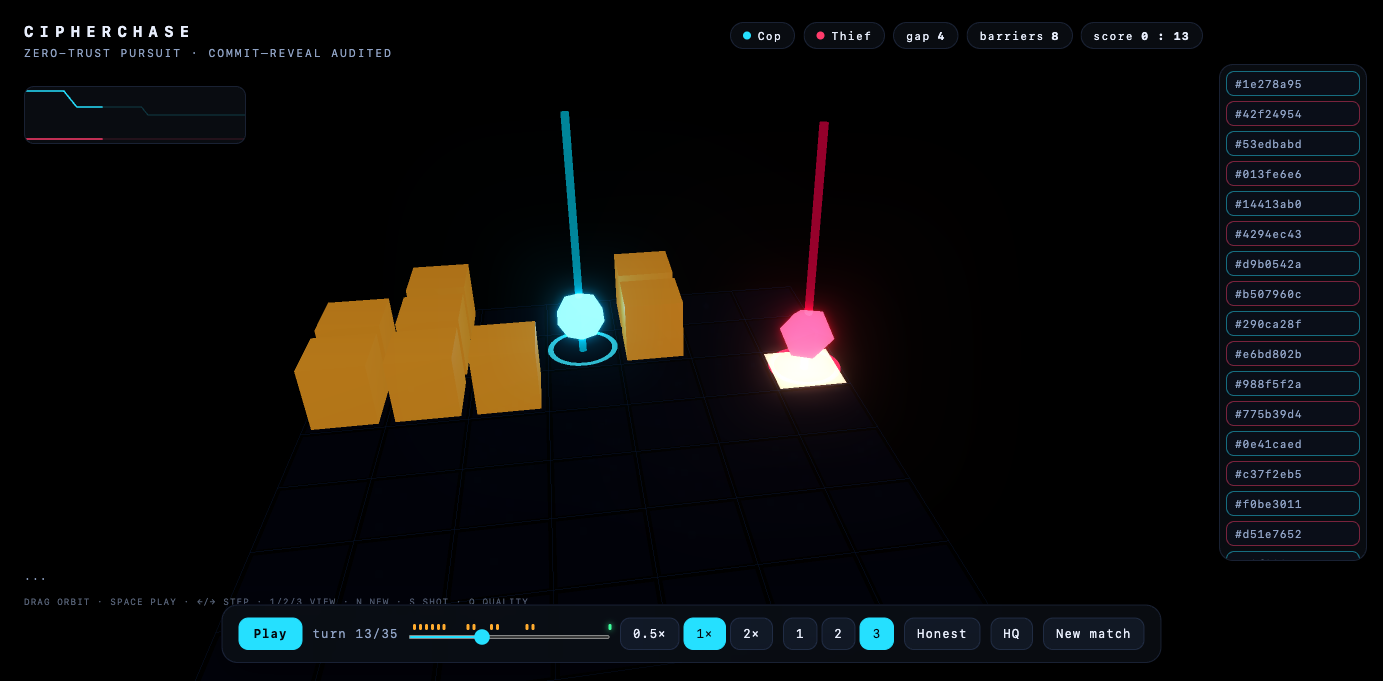
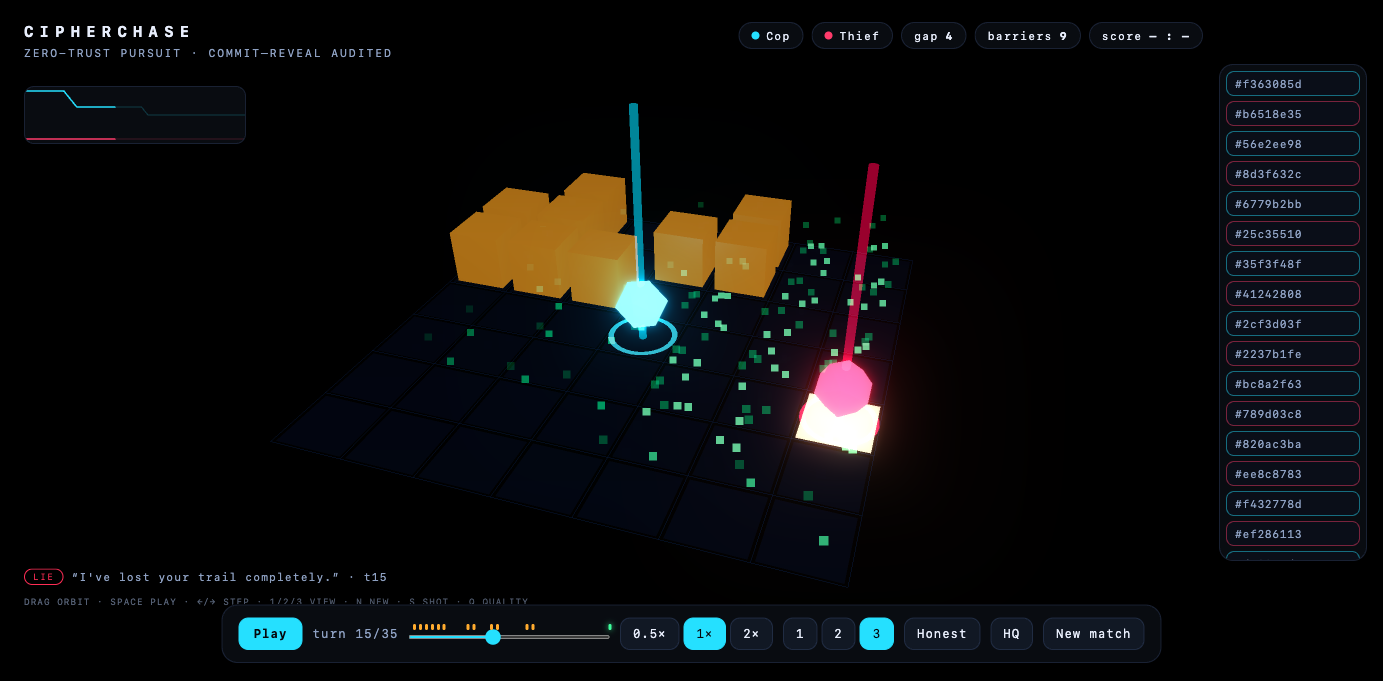
fix(viz): QA pass — five real bugs found on-screen and fixed
Driven hands-on in a headless browser (every control exercised,
regressions screenshotted): (1) follow-cam over-zoom cropped the board —
added a zoom floor, board-biased target, elevation keeper; (2) belief
floor unreadable — removed the v>=0.14 color cliff, brightened base +
grid; (3) scent particles invisible when paused/scrubbed — spawn on
every discrete apply + a 1.1s paused shimmer re-emission; (4) hint
ticker stuck on '···' — hints now persist scrub-correctly via a
last-hint-at-or-before index, with the truth/LIE badge; (5) mid-game
score chip implied live points — now honest '– : –' until the end.
Bonus: viz_server sends Cache-Control: no-store (stale-module dev trap).
Verified: backward-scrub regressions (walls/rail/banner/scoreboard) all
clean; rail is progressive + per-step interleaved; cop-view ghost
correct. README media retaken with the fixed visuals. node tests 11
pass; suite green.

diff --git a/viz/js/scent.js b/viz/js/scent.js
@@ -12,24 +12,25 @@ export function createScent(scene){
   const geo = new THREE.BufferGeometry();
   geo.setAttribute('position', new THREE.BufferAttribute(pos, 3));
   geo.setAttribute('color', new THREE.BufferAttribute(col, 3));
-  const mat = new THREE.PointsMaterial({ size: 0.16, vertexColors: true,
+  const mat = new THREE.PointsMaterial({ size: 0.22, vertexColors: true,
     transparent: true, blending: THREE.AdditiveBlending, depthWrite: false });
   const points = new THREE.Points(geo, mat);
   points.frustumCulled = false;
   scene.add(points);
   const green = new THREE.Color(COLORS.scent);
-  let head = 0;
+  let head = 0, lastMap = null, lastN = 7, shimmer = 0;
 
   function emit(r, c, N, v){
     const i = head; head = (head + 1) % MAX;
     pos[i * 3] = c - (N - 1) / 2 + (Math.random() - 0.5) * 0.6;
     pos[i * 3 + 1] = 0.05 + Math.random() * 0.1;
     pos[i * 3 + 2] = r - (N - 1) / 2 + (Math.random() - 0.5) * 0.6;
-    life[i] = 1; amp[i] = Math.min(0.9, v);
+    life[i] = 1; amp[i] = Math.min(1, v * 1.1 + 0.15);
   }
 
   // One call per discrete frame advance: emission rate follows field intensity.
   function spawnFrame(scentMap, N){
+    lastMap = scentMap; lastN = N; shimmer = 0;
     for (const k in scentMap){
       const v = scentMap[k];
       if (v <= 0.05) continue;
@@ -39,9 +40,11 @@ export function createScent(scene){
   }
 
   function update(dt){
+    shimmer += dt;                      // paused/scrubbed scenes keep a live wake
+    if (shimmer > 1.1 && lastMap){ shimmer = 0; spawnFrame(lastMap, lastN); }
     for (let i = 0; i < MAX; i++){
       if (life[i] <= 0){ col[i * 3] = col[i * 3 + 1] = col[i * 3 + 2] = 0; continue; }
-      life[i] -= dt * 0.55;
+      life[i] -= dt * 0.45;
       pos[i * 3 + 1] += dt * 0.35;
       const a = Math.max(0, life[i]) * amp[i];
       col[i * 3] = green.r * a; col[i * 3 + 1] = green.g * a; col[i * 3 + 2] = green.b * a;
@@ -50,7 +53,7 @@ export function createScent(scene){
     geo.attributes.color.needsUpdate = true;
   }
 
-  function reset(){ life.fill(0); col.fill(0); geo.attributes.color.needsUpdate = true; }
+  function reset(){ life.fill(0); col.fill(0); lastMap = null; geo.attributes.color.needsUpdate = true; }
   function setVisible(v){ points.visible = v; }
   reset();
   return { spawnFrame, update, reset, setVisible };

diff --git a/viz/js/main.js b/viz/js/main.js
@@ -47,6 +47,10 @@ async function loadGame(fresh){
   catch (e){ if (!S.game) throw e; return; }             // keep current game on failure
   S.game = raw; S.turn = 0; S.last = -1; S.ended = false; S.playing = true;
   S.dist = D.distanceSeries(raw); S.err = D.beliefErrorSeries(raw);
+  S.hints = raw.frames.reduce((acc, f, i) => {
+    acc.push(f.hint ? { text: f.hint, intent: f.intent, turn: f.turn } : acc[i - 1] ?? null);
+    return acc;
+  }, []);
   board.rebuild(raw.size); scent.reset(); walls.reset(); finales.reset();
   rail.setGame(D.glyphModel(raw)); rail.reset();
   hud.setMarkers(D.deriveEvents(raw), raw.frames.length);
@@ -59,13 +63,15 @@ const frameAt = i => S.game.frames[T.clampTurn(i, S.game.frames.length)];
 function applyDiscrete(i, forward){
   const f = frameAt(i);
   views.apply(f, { board, agents, scent, N: S.game.size });
-  if (forward){ scent.spawnFrame(f.scent, S.game.size); agents.pulse(); }
-  else scent.reset();
+  if (forward){ agents.pulse(); } else { scent.reset(); }
+  scent.spawnFrame(f.scent, S.game.size);            // field visible even when scrubbed/paused
   walls.sync(f.barriers, S.game.size, forward);
   rail.reveal(f.turn);
-  hud.setHint(f.hint, f.intent, views.view === 3);
+  const h = S.hints[i];
+  hud.setHint(h && `“${h.text}” · t${h.turn}`, h?.intent, views.view === 3);
   hud.update({ gap: S.dist[i], barriers: f.barriers.length,
-    score: D.scoreEstimate(S.game, f.turn), turn: f.turn, nTurns: S.game.frames.length });
+    score: i >= S.game.frames.length - 1 ? D.scoreEstimate(S.game, f.turn) : null,
+    turn: f.turn, nTurns: S.game.frames.length });
   hud.drawSpark(S.dist, S.err, i);
 }
 

diff --git a/viz/js/camera_rig.js b/viz/js/camera_rig.js
@@ -16,13 +16,17 @@ export function createRig(camera, controls, reduce){
     const idle = performance.now() - userAt > IDLE_MS;
     controls.autoRotate = !reduce && idle && enabled;
     if (!enabled || !idle) return;
-    want.addVectors(copP, thiefP).multiplyScalar(0.5); want.y = 0.3;
+    // action centroid biased toward the board centre so the arena never crops
+    want.addVectors(copP, thiefP).multiplyScalar(0.5).multiplyScalar(0.55);
+    want.y = 0.3;
     controls.target.lerp(want, 1 - Math.exp(-dt * 1.8));
-    const wantDist = 9 + (gap ?? 8) * 0.55;             // zoom in as the gap closes
-    dir.subVectors(camera.position, controls.target);
-    const d = dir.length();
+    const wantDist = Math.max(11, 8.2 + (gap ?? 8) * 0.6); // zoom floor keeps the board framed
+    dir.subVectors(camera.position, controls.target).normalize();
+    dir.y += (Math.max(0.52, dir.y) - dir.y) * (1 - Math.exp(-dt * 0.9)); // keep elevation
+    dir.normalize();
+    const d = camera.position.distanceTo(controls.target);
     const nd = d + (wantDist - d) * (1 - Math.exp(-dt * 1.2));
-    camera.position.copy(controls.target).addScaledVector(dir.normalize(), nd);
+    camera.position.copy(controls.target).addScaledVector(dir, nd);
   }
 
   function setEnabled(v){ enabled = v; if (!v) controls.autoRotate = false; }

diff --git a/viz/js/board.js b/viz/js/board.js
@@ -18,7 +18,7 @@ export function ramp(t){
 export function createBoard(scene){
   let N = 7, mesh = null, grid = null;
   const geo = new THREE.PlaneGeometry(0.92, 0.92); geo.rotateX(-Math.PI / 2);
-  const base = new THREE.Color(0x0b101e), tmp = new THREE.Color();
+  const base = new THREE.Color(0x101827), tmp = new THREE.Color();
   const m4 = new THREE.Matrix4();
 
   function rebuild(n){
@@ -31,7 +31,7 @@ export function createBoard(scene){
       mesh.setMatrixAt(r * N + c, m4);
       mesh.setColorAt(r * N + c, base);
     }
-    grid = new THREE.GridHelper(N, N, 0x2a3f66, 0x18263f);
+    grid = new THREE.GridHelper(N, N, 0x33507e, 0x1c2c4a);
     grid.position.y = 0.012;
     scene.add(mesh, grid);
   }
@@ -41,7 +41,7 @@ export function createBoard(scene){
     for (let r = 0; r < N; r++) for (let c = 0; c < N; c++){
       const v = vals ? vals[r][c] / peak : 0;
       tmp.copy(base);
-      if (v >= 0.14) tmp.add(ramp(v).multiplyScalar(0.16 + v * 0.6));
+      if (v > 0.03) tmp.add(ramp(v).multiplyScalar(0.08 + v * 0.62)); // smooth, no cliff
       mesh.setColorAt(r * N + c, tmp);
     }
     mesh.instanceColor.needsUpdate = true;

diff --git a/viz/js/hud.js b/viz/js/hud.js
@@ -21,7 +21,7 @@ export function createHud(){
   function update({ gap, barriers, score, turn, nTurns }){
     $('gap').textContent = gap;
     $('nbar').textContent = barriers;
-    $('score').textContent = score.cop + ' : ' + score.thief;
+    $('score').textContent = score ? score.cop + ' : ' + score.thief : '– : –';
     $('turn').textContent = `turn ${turn}/${nTurns}`;
   }
 

diff --git a/scripts/viz_server.py b/scripts/viz_server.py
@@ -22,6 +22,10 @@ class Handler(SimpleHTTPRequestHandler):
     def __init__(self, *args, **kwargs) -> None:
         super().__init__(*args, directory="viz", **kwargs)
 
+    def end_headers(self) -> None:  # dev server: never let modules go stale
+        self.send_header("Cache-Control", "no-store")
+        super().end_headers()
+
     def do_GET(self) -> None:  # noqa: N802
         if self.path.startswith("/api/game"):
             body = json.dumps(capture()).encode()
